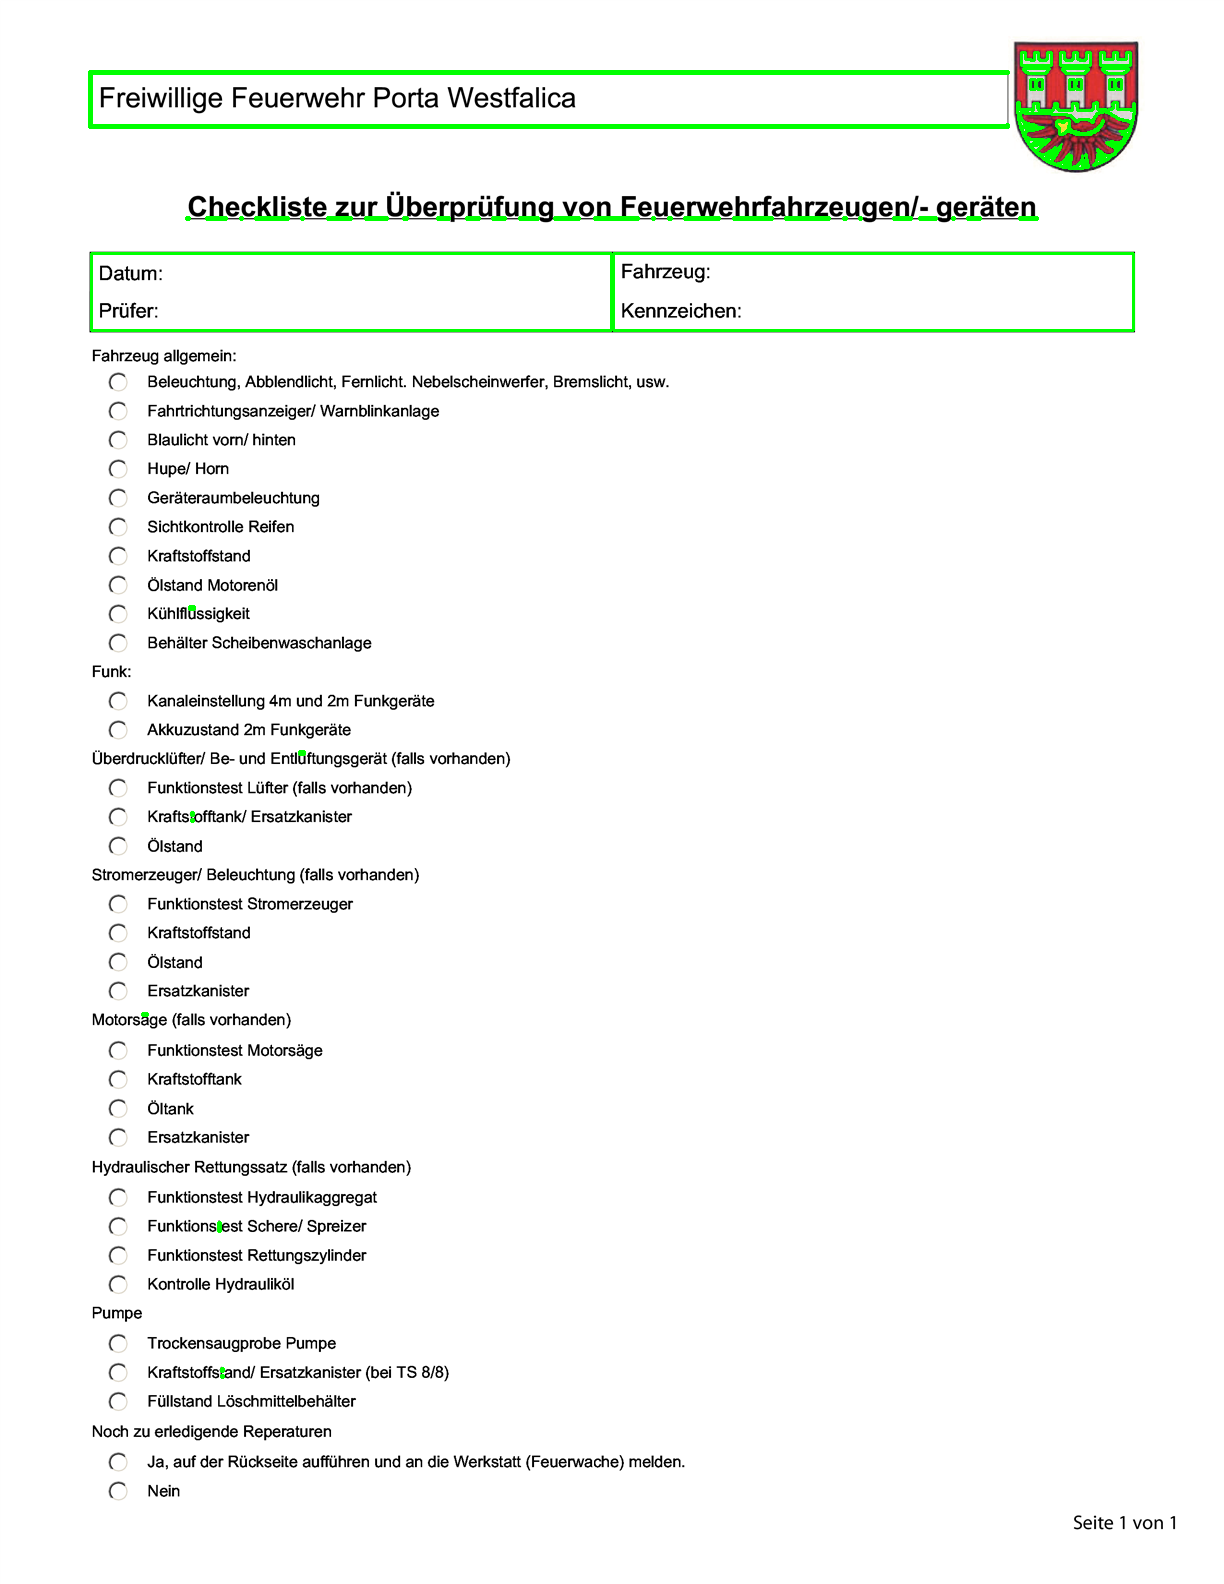
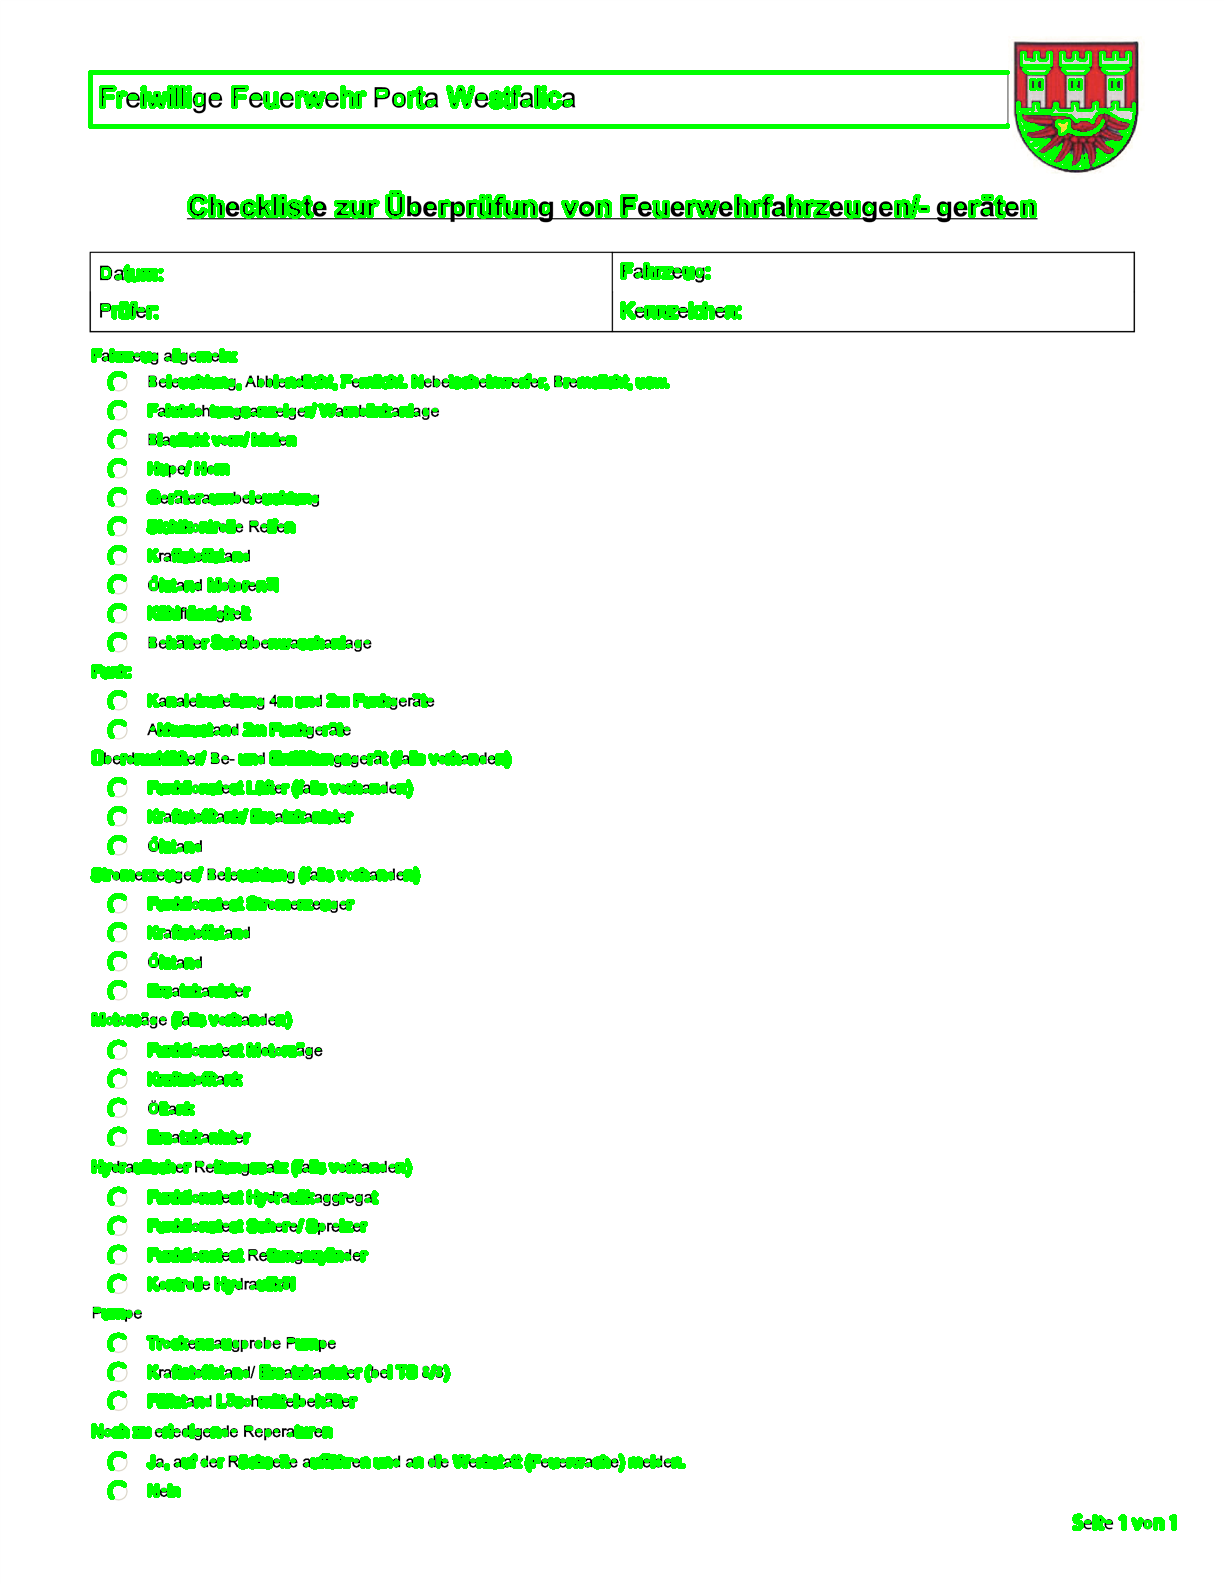
removed small contours, added "?" and ":" need to add [] and o

diff --git a/FormReader/FormReader.py b/FormReader/FormReader.py
@@ -16,7 +16,6 @@ class Image_Data:
         self.height, self.width, self.channels = self.img.shape
         pyt_string = pyt.image_to_string(self.img_pil_gray, boxes=True)
         pyt_string_split = pyt_string.split('\n')
-        # print pyt_string_split
         self.string_split = [split.split() for split in pyt_string_split]
         self.char_array = self.get_char_arrays()
         self.wordless_img = cv2.drawContours(self.img, self.char_array, -1, (255, 255, 255), -1)
@@ -27,6 +26,7 @@ class Image_Data:
         self.image, self.contours, self.hierarchy = cv2.findContours(thresh, cv2.RETR_TREE, cv2.CHAIN_APPROX_SIMPLE)
         cont_hierarchy = np.array(zip(self.contours, self.hierarchy[0][:, 2]))
         self.real_contours = cont_hierarchy[cont_hierarchy[:, 1] == -1][:, 0]
+        self.real_contours = self.get_array_size()
         self.final_img = cv2.drawContours(cv2.imread(imgpath), self.real_contours, -1, (0, 255, 0), 2)
 
     def get_wordless_img(self):
@@ -36,13 +36,13 @@ class Image_Data:
         cv2.imwrite('final_' + sys.argv[1], self.final_img)
 
     def get_img_string(self):
-        print pyt.image_to_string(self.img_pil)
+        print pyt.image_to_string(self.img_pil_gray)
 
     def get_char_arrays(self):
         char_list = []
         for char_split in self.string_split:
             char_id = char_split[0]
-            if (char_id != '~') & (char_id != '_'):
+            if (char_id != '~') & (char_id != '_') & (char_id != ':') & (char_id != '?'):
                 char_split_s = self.height - int(char_split[2])
                 char_split_w = int(char_split[1])
                 char_split_n = self.height - int(char_split[4])
@@ -54,6 +54,18 @@ class Image_Data:
 
         return char_list
 
+    def get_array_size(self):
+        contours_to_keep = []
+        for i, contour in enumerate(self.real_contours):
+            x = contour[:, 0, 0]
+            y = contour[:, 0, 1]
+            min_x, max_x = np.min(x), np.max(x)
+            min_y, max_y = np.min(y), np.max(y)
+            area = (max_x - min_x)*(max_y - min_y)
+            if area > 50:
+                contours_to_keep.append(i)
+
+        return self.real_contours[contours_to_keep]
 print 'start time %s' % (datetime.datetime.now())
 imgpath = str(sys.argv[1])
 test = Image_Data(imgpath)
